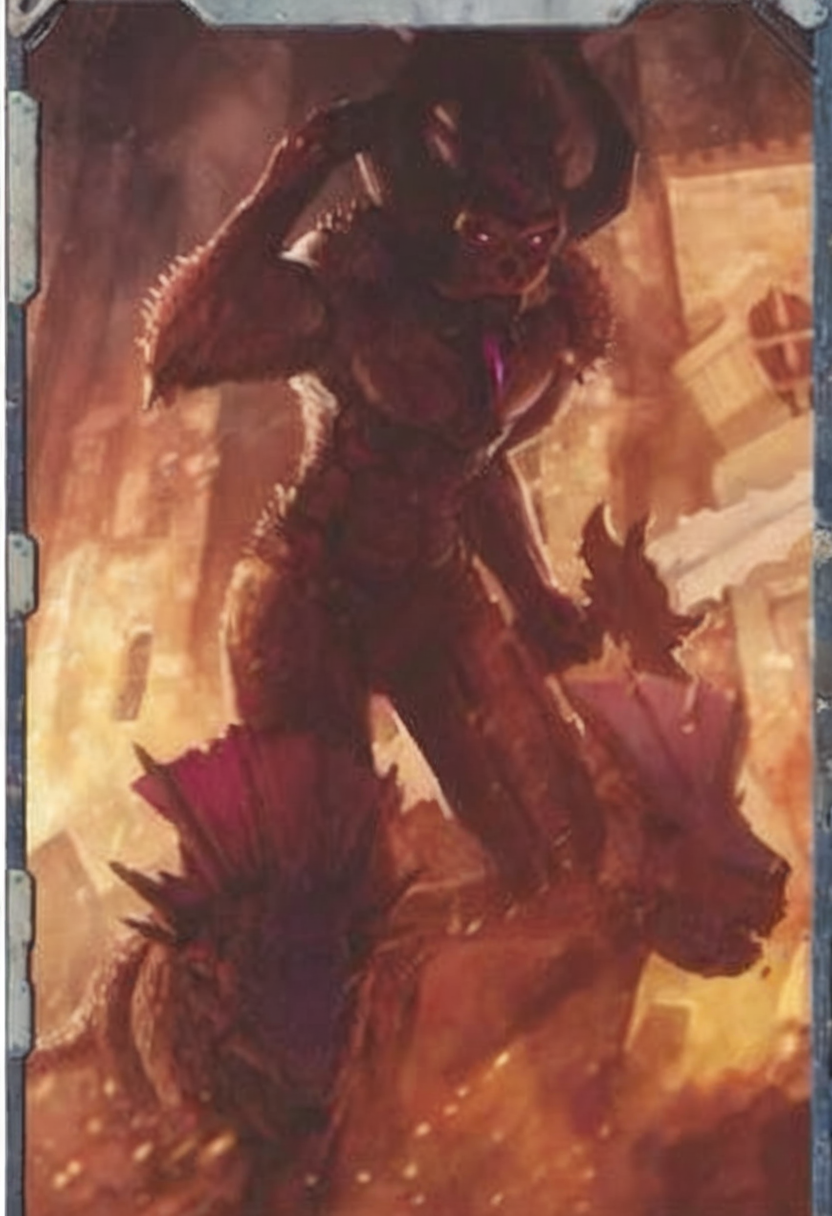
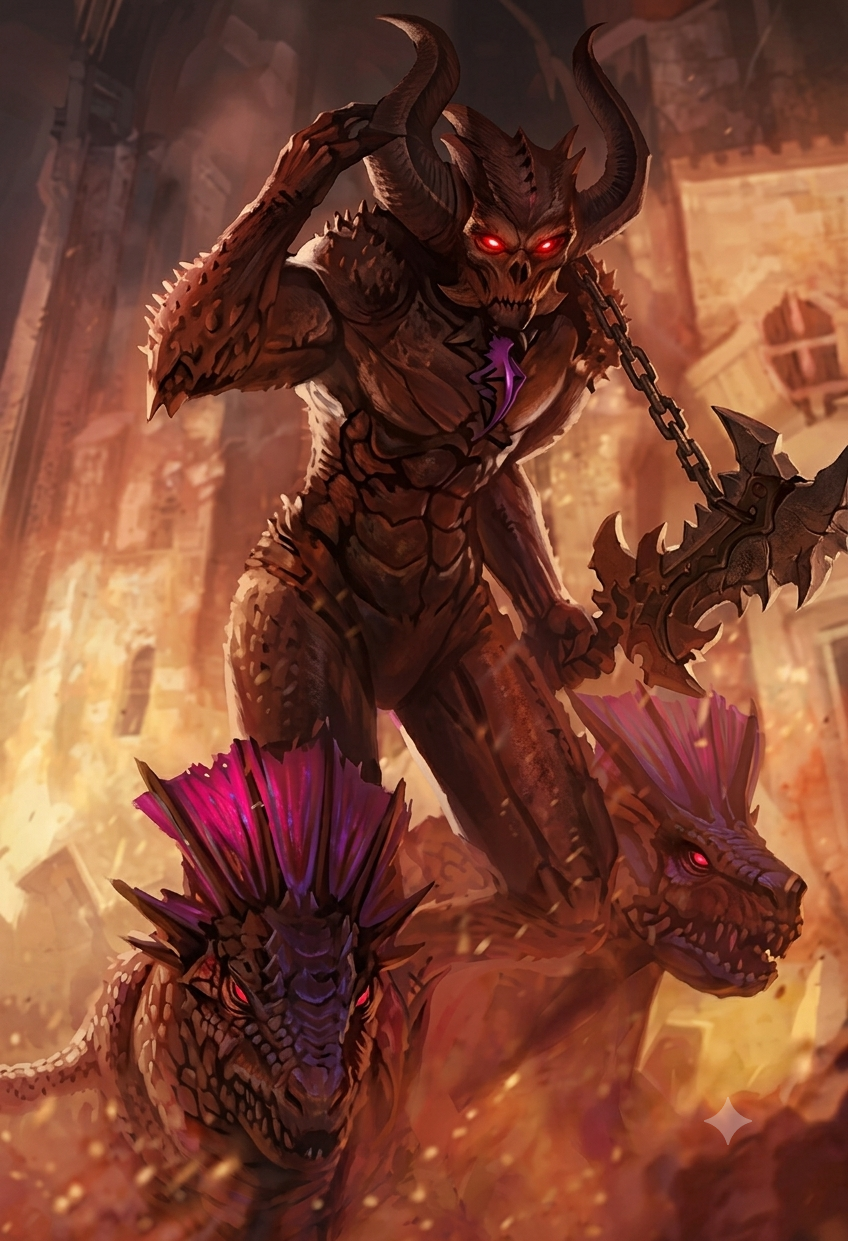
Release 0.7.28 — manual NO_FACE portrait swap (21 hand-picks)
User triaged all 81 portraits flagged NO_FACE by the 0.7.27 audit and
swapped in 21 hand-picked replacements. The other 60 confirmed correct
(creatures/xenos where Haar can't detect a face but the art is fine).

Re-audit: GOOD 190→193, NO_FACE 81→62. 19 of the 21 swaps gained a
detectable face; 16 landed as FACE_TINY because the replacements are
full-figure but with the face visible.

diff --git a/CLAUDE.md b/CLAUDE.md
@@ -4,13 +4,14 @@ Unofficial Foundry VTT system for **FFG's Rogue Trader 1e** content using **Dark
 
 Forked from mrkeathley's Dark Heresy 2 system. Authored by MortarionUA. Compatible with Foundry VTT v13–v14.
 
-**Current version: 0.7.27** (released 2026-06-05). **Portrait-bust reframe pass** — 223 portraits flagged by the framing audit re-generated at 1024×1024 with explicit head-and-shoulders prompt. Framing GOOD count went 54 → **190**; FACE_TINY 197 → 53. Every NPC still has a portrait (no regressions from the framing rerun).
+**Current version: 0.7.28** (released 2026-06-07). **Manual NO_FACE portrait swap.** User reviewed all 81 NO_FACE portraits flagged by the framing audit and dropped in 21 hand-picked replacements (the rest validated as fine — creatures/xenos where Haar can't detect a face but the art is correct). Re-audit: GOOD 190 → **193**, NO_FACE 81 → 62.
 
 ## 0.7.x series — ApplicationV2 actor sheets + content pipeline
 - **0.7.0** — `AcolyteSheetV2` extending `HandlebarsApplicationMixin(ActorSheetV2)`. Pop-out windows on v13/v14. Templates migrated to V2 `data-action` event-dispatch syntax.
 - **0.7.1** — characteristic table 10→9 columns (Influence removed), advance-select font shrunk to 8.5pt so Intermediate/Proficient fit.
 - **0.7.2** — vehicle + voidship V2 sheets. Extracted shared `ActorContainerSheetV2` base (item/effect CRUD, drag/drop, toggle-visibility); voidship has a `_processSubmitData` override that routes `items.<id>.<path>` form keys through `updateEmbeddedDocuments`. `TYPES.Actor.{npc,vehicle,voidship}` localization added so window titles resolve. **Key SCSS fix:** moved `@import 'sheets/actor'` out of `.rt-wrapper` scope in `rogue-trader-3rd.scss` — in V2 both classes land on the same `<section class="window-content rt-actor rt-wrapper">` element, so the descendant combinator `.rt-wrapper .rt-actor` never matched and the grid was silently never applied (voidship panels stacked full-width instead of 3-up).
 - **0.7.3** — NPC V2 sheet as a thin subclass of `AcolyteSheetV2` (only redeclares `npc` frame class and template path).
+- **0.7.28** — **Manual NO_FACE portrait swap.** The 0.7.27 reframe pass left 81 portraits classified as NO_FACE by the Haar audit. Triaged all 81 by hand at `/mnt/project_data/RT/no_face_review/` (numbered PNGs + `INDEX.md` mapping each number → repo path). 21 were swapped in with hand-picked replacement art; the other 60 confirmed correct (creatures/xenos where Haar can't detect a face but the art is fine). Re-audit: GOOD 190→**193**, NO_FACE 81→62 (19 swaps gained a detectable face; 16 of those landed as FACE_TINY for now — full-figure replacements but with the face visible). Net: GOOD up, NO_FACE down, every NPC still has art.
 - **0.7.27** — **Portrait-bust reframe pass.** New tool `tools/npc_pipeline/comfy_npc_reframe.py` consumes the `/tmp/framing.json` produced by `audit_face_framing.py --json`, filters for FACE_TINY/FACE_LOW/FACE_EDGE_LR/FACE_CROPPED_*, and txt2img-regenerates each at **1024×1024** (square aspect matches Foundry's square token crop) with a composition-first prompt: `"portrait bust, head and shoulders, face centered upper third, dramatic close-up, looking at viewer, intense gaze"` plus new negatives (`full body shot, action pose, wide shot, distant figure, tiny face, face cropped out, looking away`). Always txt2img — even where an img2img ref was available — because the existing book-scan refs anchor full-body composition, which is the whole reason FACE_TINY happened. Per-NPC seed = `137 + hash(slug)` so each rerun gets fresh draws. Faction LoRA picked from a slug/book heuristic (`Eldar`/`Ork`/`Tau`). 397 min, 223 ok, 0 errors. Re-audit: **GOOD 54→190** (+136), FACE_TINY 197→53 (-144), FACE_LOW 24→9, FACE_EDGE_LR 2→1. NO_FACE 57→81 (+24) — some FACE_TINY humans were replaced by creature/xenos compositions where Haar doesn't detect a face; not necessarily worse, just unmeasurable by the cascade. Zero FACE_CROPPED in either pass. `BAD_FRAMING.md` regenerated; the remaining 63 flagged are mostly creatures (NO_FACE) plus a long tail of stubborn FACE_TINY where the model resists the bust prompt.
 - **0.7.26** — **Backfill NPC portraits + framing audit.** Generated portraits for the 158 NPCs that were missing one (47% of the 338-NPC compendium had `img: ''`). `comfy_npc_batch.py` against `whisperx` SDXL pipeline (JuggernautXL + faction LoRAs + Oldhammer @ 0.5); reference upload for img2img where the source-book art was available, txt2img otherwise. 277 min, 158 ok, 0 errors. `build_all_npc_yamls.py` re-linked `img:` fields across all `*npcs/*.yml`. New audit script `tools/npc_pipeline/audit_face_framing.py` (opencv-python-headless, Haar `frontalface_default` + `profileface` + mirrored-profile fallback) classifies each portrait by face position/size: GOOD 54, NO_FACE 57 (mostly xenos/creatures), FACE_TINY 197, FACE_LOW 24, FACE_EDGE_LR 2, FACE_CROPPED_TOP/BTM **0**. Per-NPC report at `tools/npc_pipeline/BAD_FRAMING.md`. **Portrait-bust rerun pass queued** for the 223 framing-flagged entries.
 - **0.7.25** — **NPC math audit: fix `_computeSkills` crash on orphan-skill NPCs.** The 0.7.17 skill split (`athletics`→`climb`+`swim`, `stealth`→`concealment`+`silentMove`+`shadowing`, `linguistics`→`speakLanguage`+…, `operate`→`drive`+`pilot`) left orphan skill keys on hundreds of NPC YAMLs. Those orphan keys had no `characteristic` and no `characteristics` array. `_computeSkills` in `acolyte.mjs` line 337 unconditionally accessed `skill.characteristics[0]`, throwing for every affected NPC and aborting `prepareData()` before `_computeArmour` / `_computeMovement` / `_computeEncumbrance` could run. The 0.7.17 changelog had asserted these orphans were "harmless" — they weren't. Defensive guard: `if (!skill.characteristic && (!Array.isArray(skill.characteristics) || skill.characteristics.length === 0)) continue;`. Audit script `/tmp/audit_npcs.py` against rt-smoke: before fix — 9 NPCs with Natural Armour trait showing body=0, 253 movement_mismatches; after fix — 0 armour-with-trait-zero, 124 movement mismatches (all source-book special-creature overrides or upstream Unnatural-Agility extraction bugs, not math bugs). All 308 unique weapon damage formulas across 338 NPCs parse correctly. Characteristic bonus math `bonus = floor((base + advance*5 + modifier)/10) + unnatural` verified correct for every NPC. Remaining data-quality issues (not math): 27 NPCs with `wounds.max=0`, 261 weapon items with empty `damage` field — these are upstream OCR/extraction bugs in `tools/npc_pipeline/`, separate pass.
